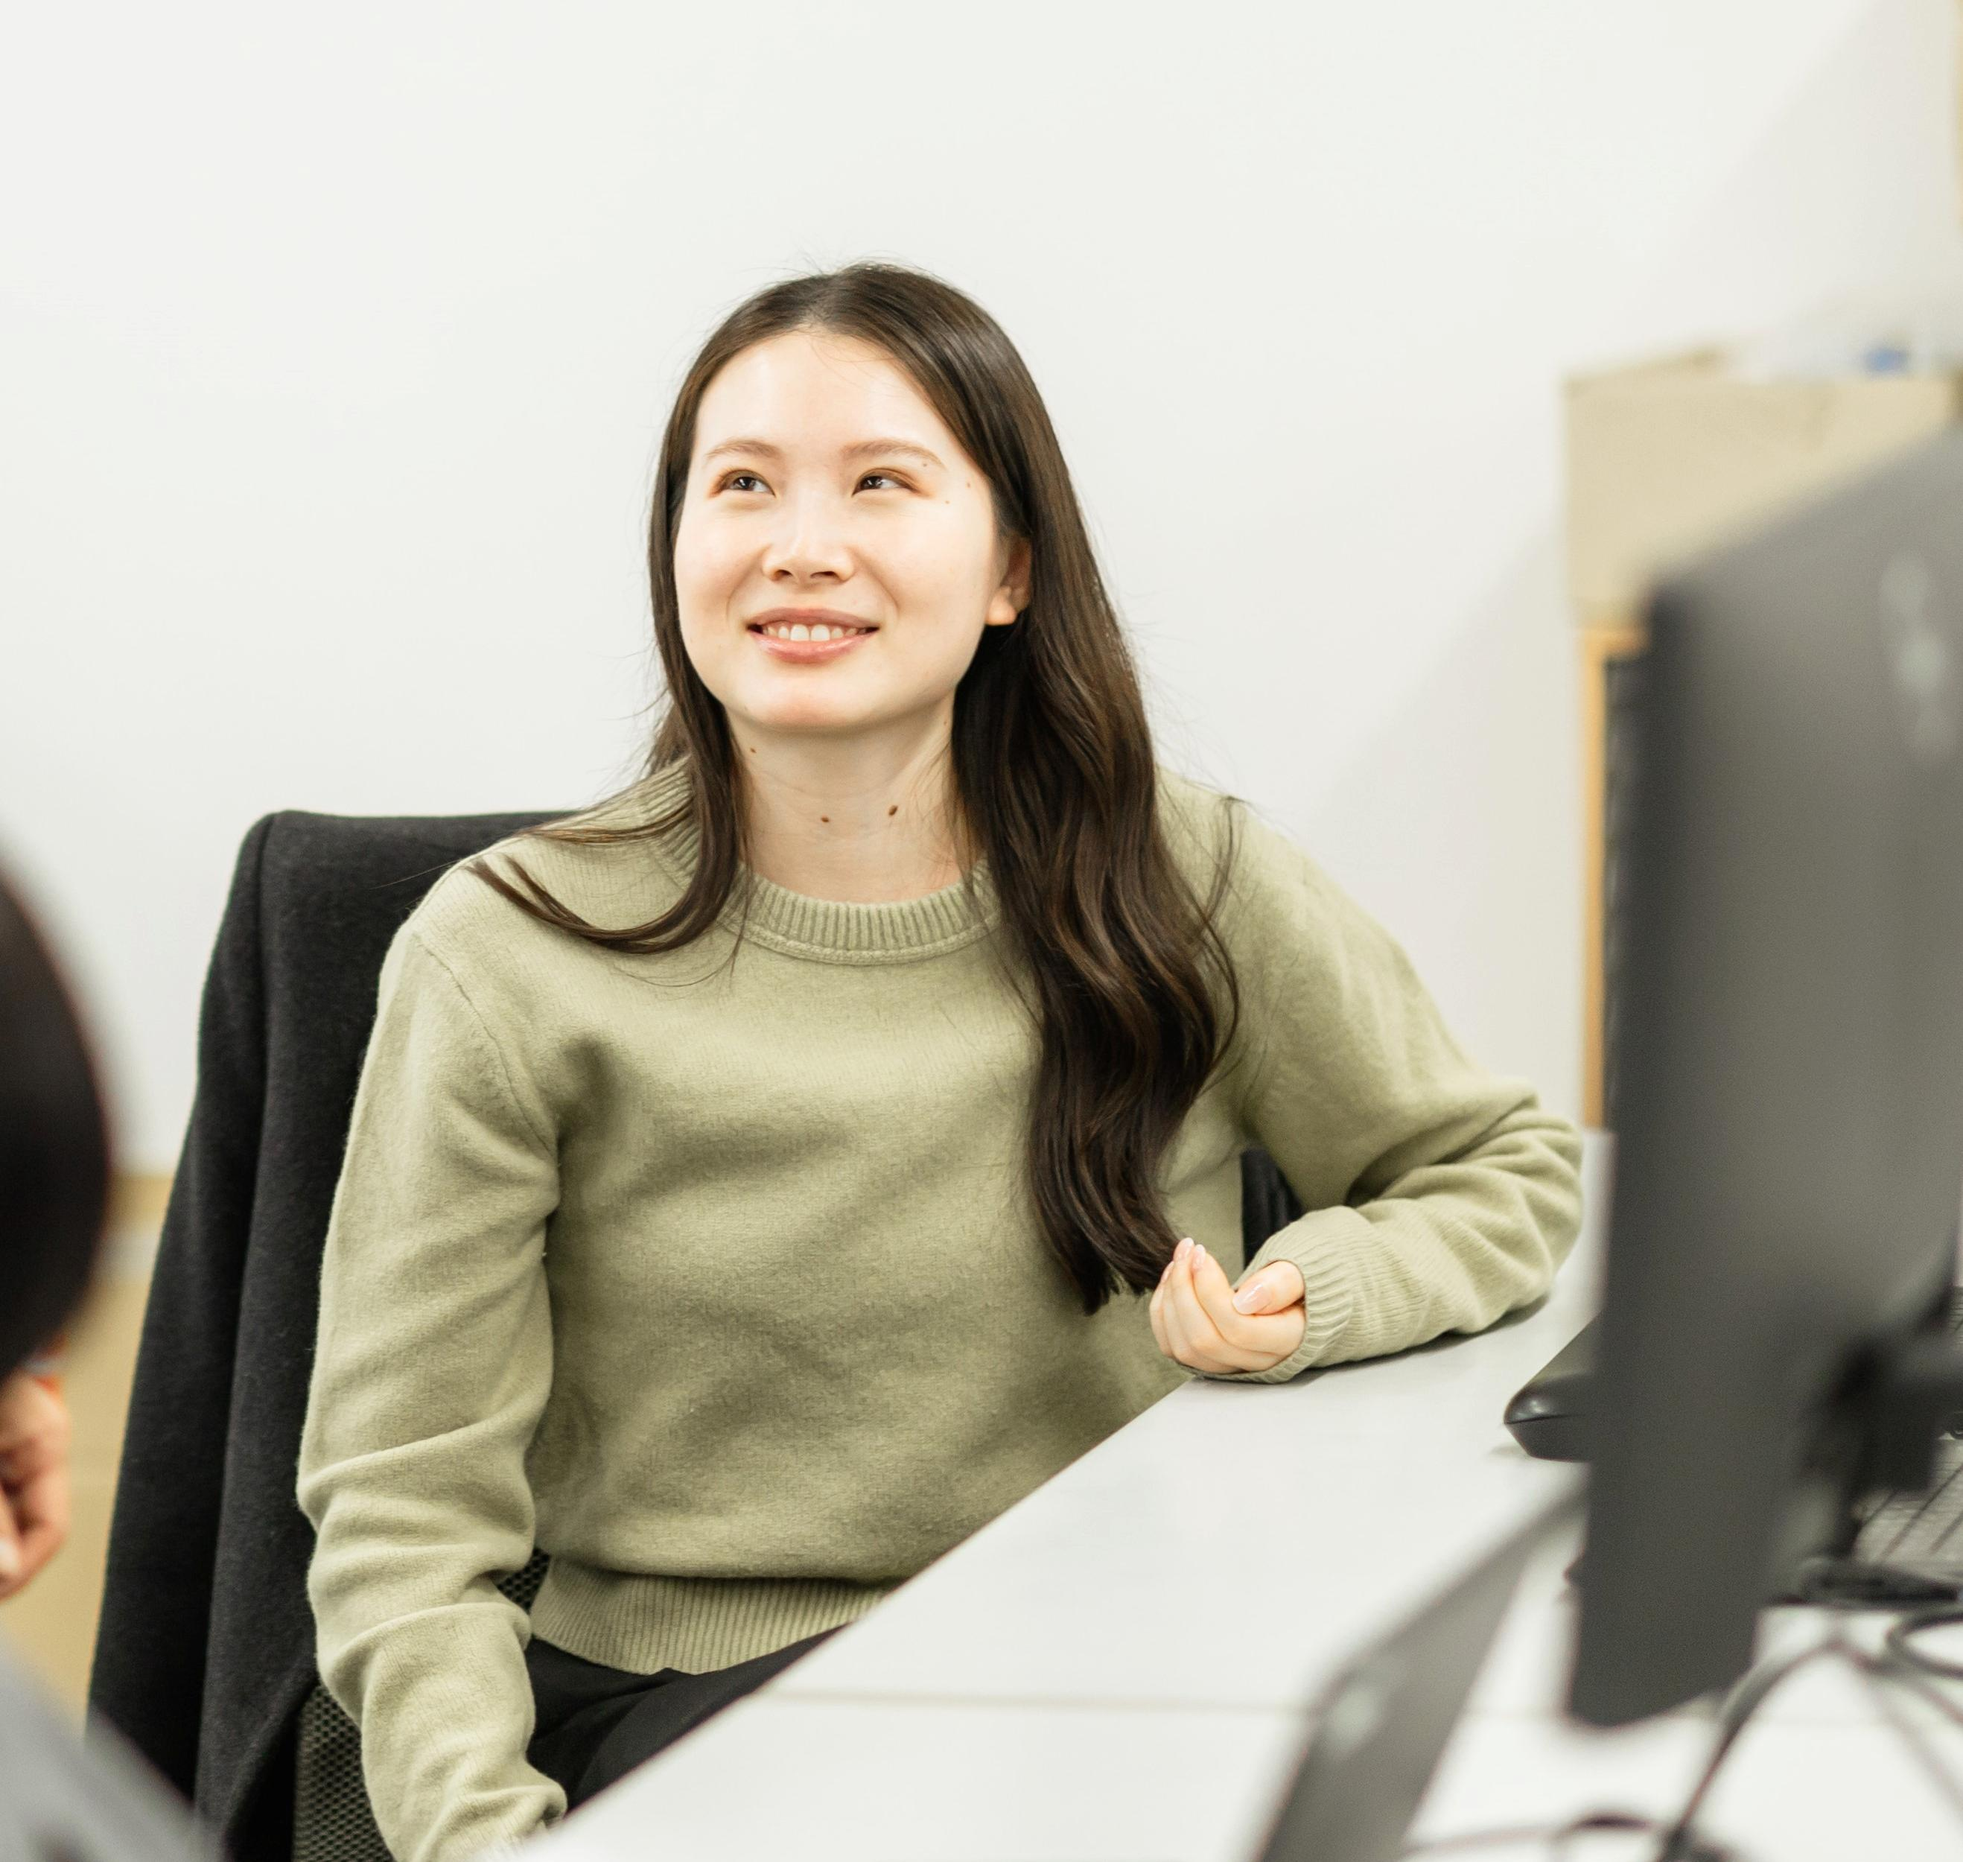
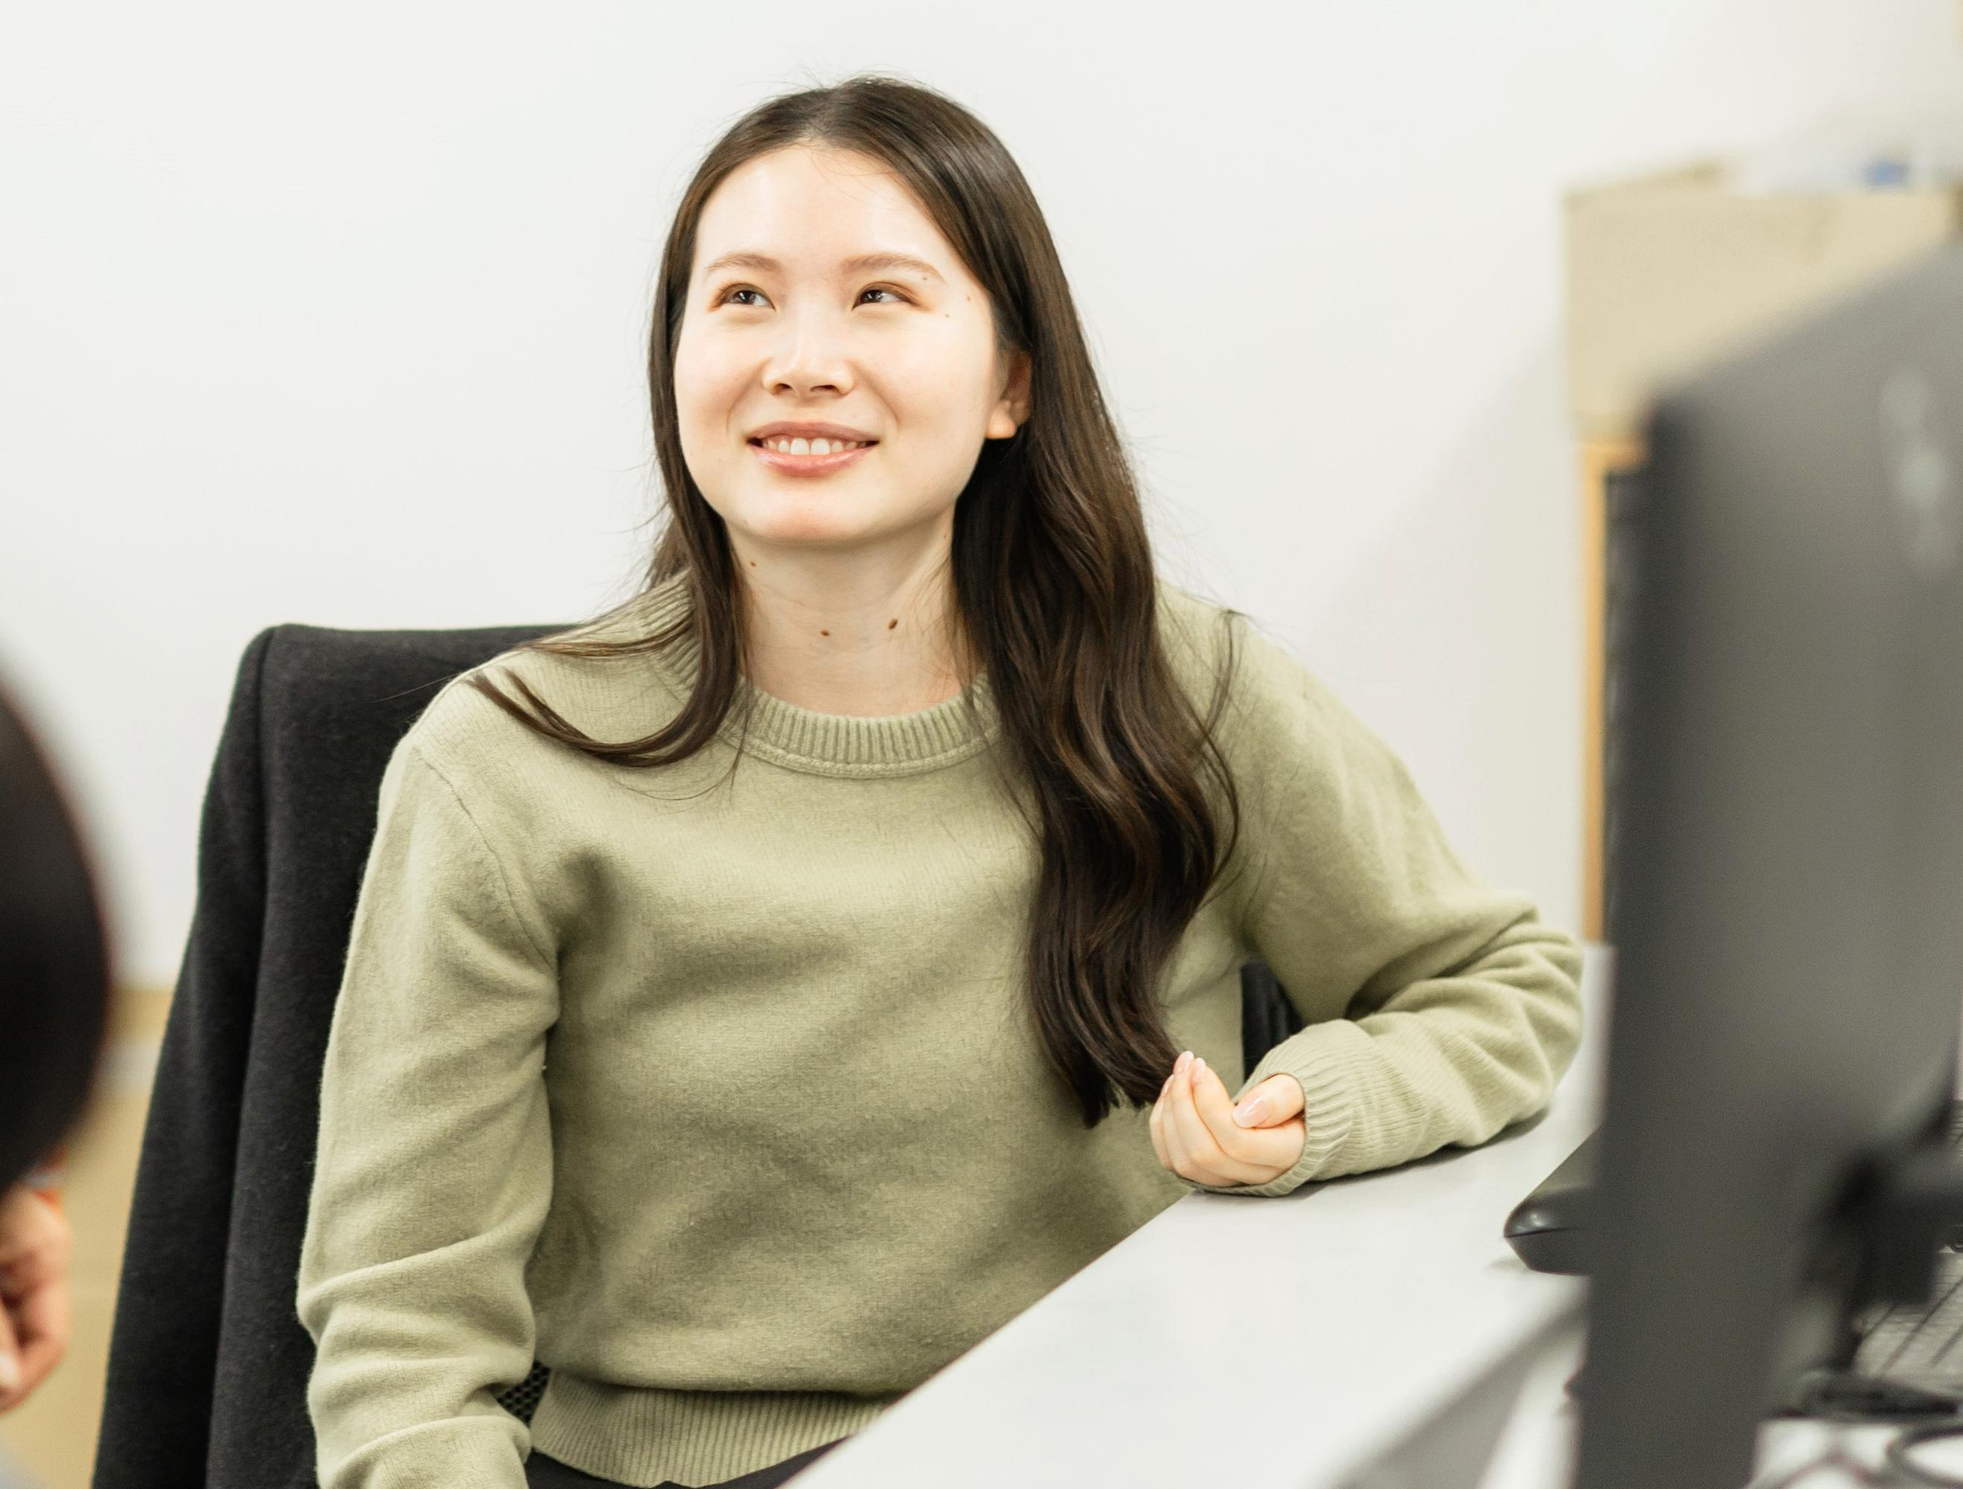
社員紹介ページの作成

diff --git a/pages/recruit/employee.vue b/pages/recruit/employee.vue
@@ -85,7 +85,7 @@
                         message3: `<p class='message text-sm sm:text-base font-bold sm:leading-7 leading-7'>就職活動の際には自分が持っている軸を大事にしてください。入社してから思っていたのとは違うなというのはとてももったいないです。私の場合は同じ企業でも面接毎に自分のやりたいことが本当にできるのか面接担当者に聞きました。選んだ会社が本当に自分とあっているのか、これでもかというくらい調べて納得のいく結果を得られるよう頑張ってください。</p>`,
                         tileColor: 'rgba(0, 37, 92, 0.1)',
                         shadowColor: 'rgb(0 0 0 / 0.5)',
-                        bgPosition: 'center'
+                        bgPosition: 'center top'
                     },
                     {
                         src: '/images/recruit/employee/009.jpg',
